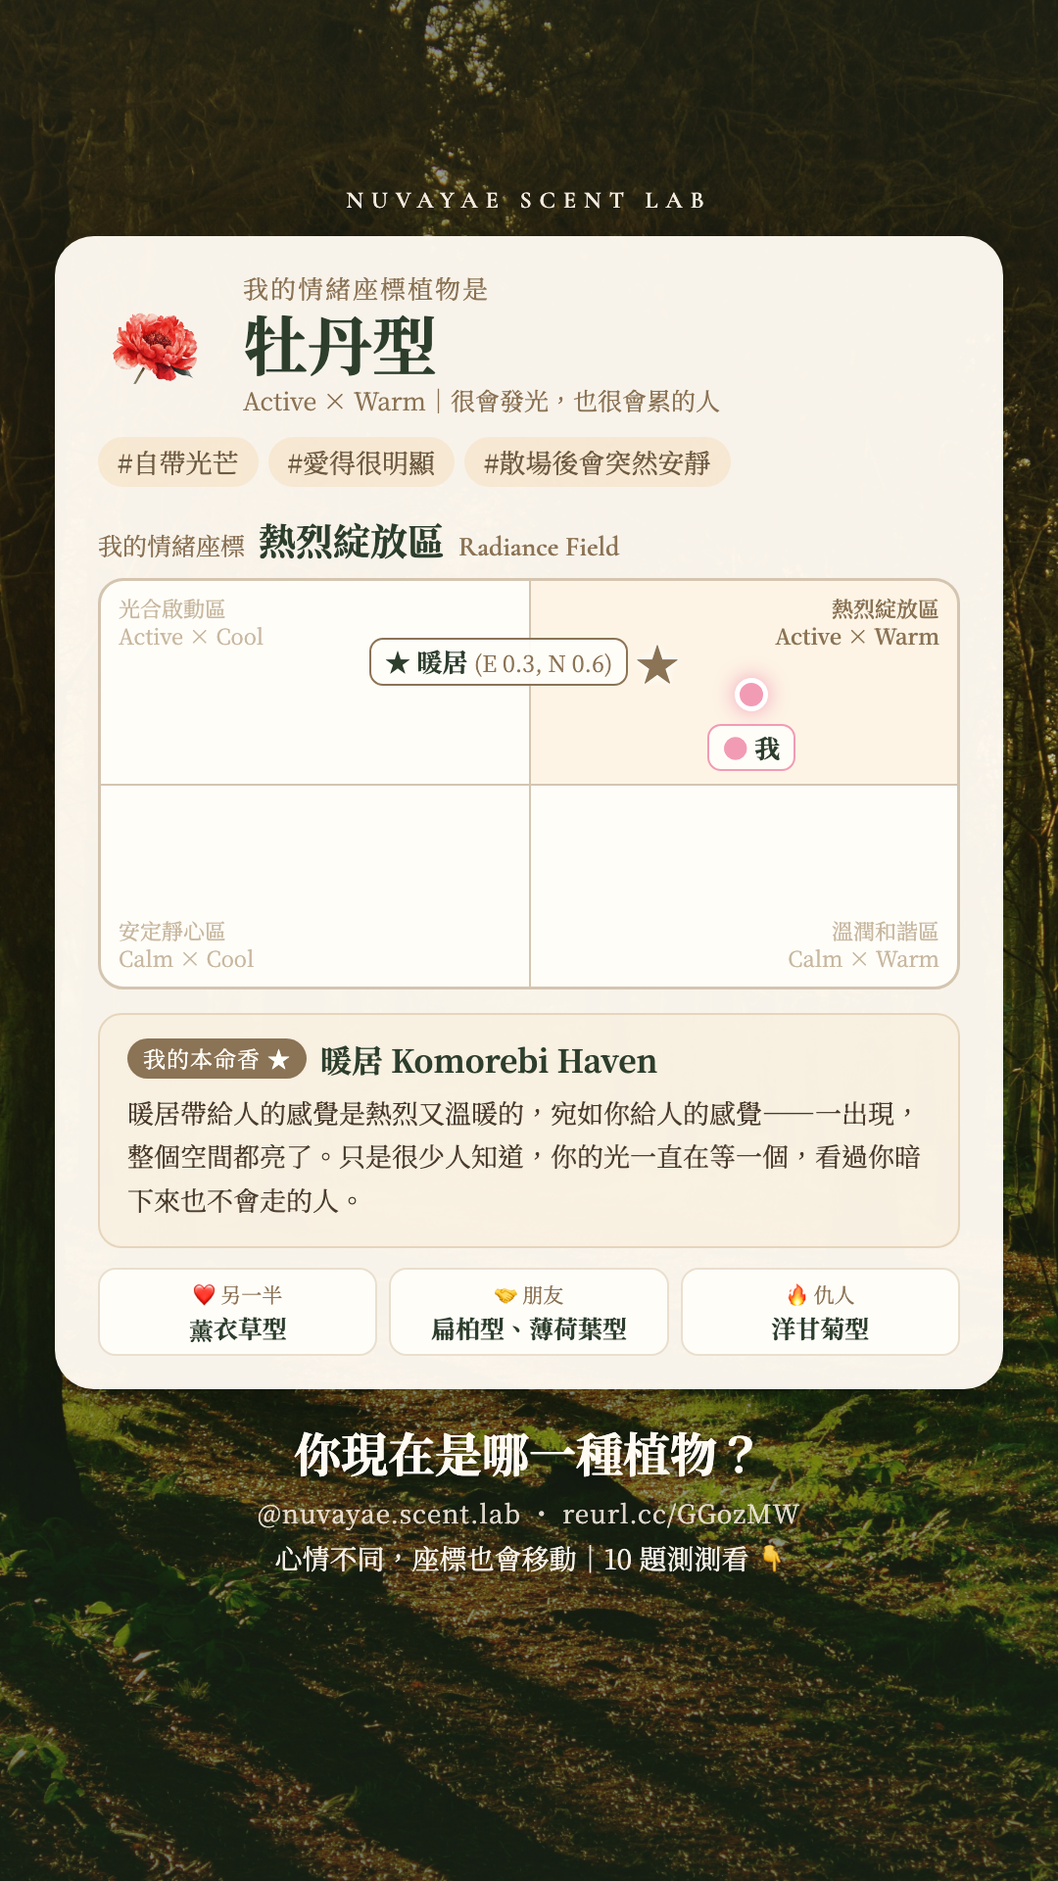
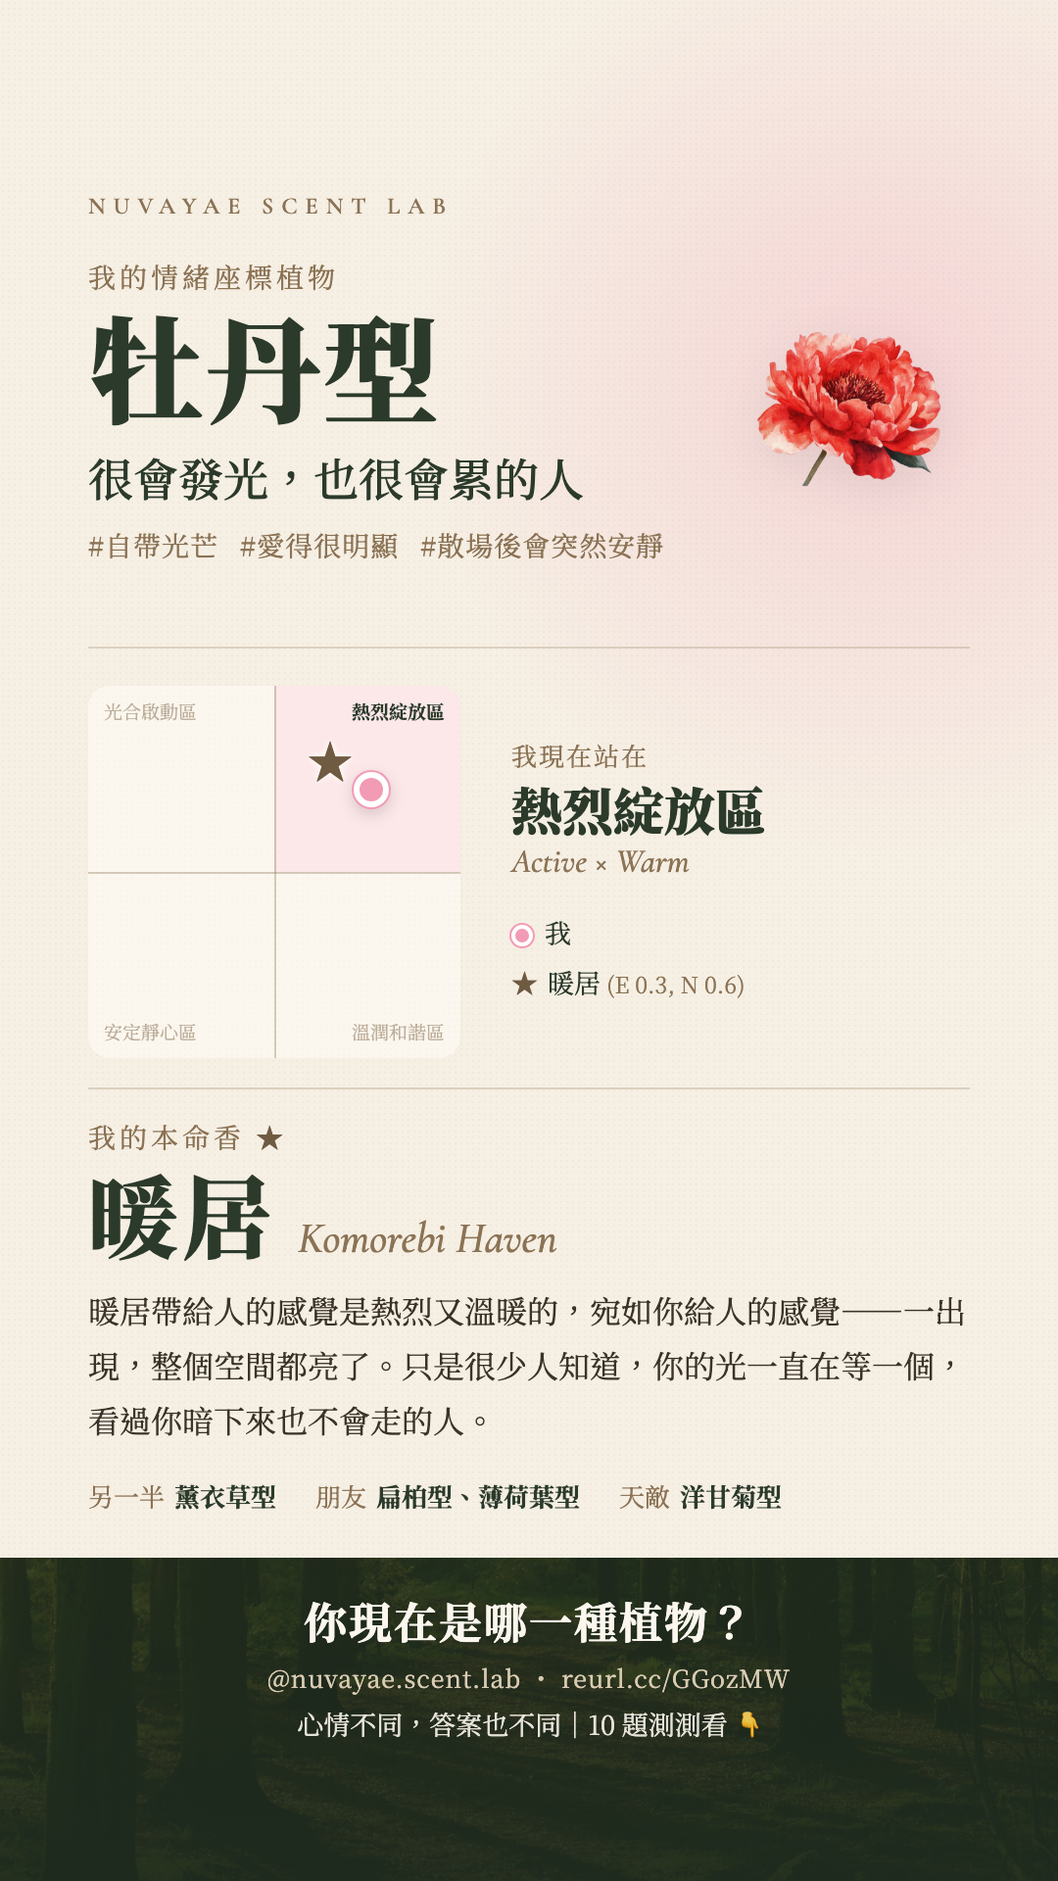
限動分享圖改為海報式排版
- 拿掉外框與卡片，用字級與留白分層：身分 → 座標 → 本命香 → 關係
- 每種植物用自己的顏色做背景暈染與象限底色
- 象限圖只放兩個點，說明移到右側圖例；底部森林帶放測驗呼籲
- 薰衣草第一個人格標籤改為「一個人也很好」，避免與副標重複
- 分享圖快取版本號更新為 v=6

diff --git a/tools/story-card.html b/tools/story-card.html
@@ -7,152 +7,155 @@
   IG 限時動態分享圖模板（1080 × 1920，9:16）
   用法：tools/story-card.html?key=lavender
   產圖：bash tools/render-story-images.sh（輸出到 share/<key>.png）
-  安全區：上方約 250px、下方約 250px 會被 IG 介面蓋住；CTA 之後留空給「連結」貼圖。
-  文案來源：js/data/plants.js（persona.traits 人格標籤、persona.line 本命香那句話）
-  主角是座標圖：我的位置（植物座標，不標數值）與本命香位置（PCA 座標，標數值）。
+
+  設計：雜誌海報式，去掉外框與卡片，用字級和留白分層。
+    1. 身分（我是誰）：植物名＋副標那句話＋人格標籤 → 讓人想分享
+    2. 座標（我在哪）：象限圖只放兩個點，說明放右側圖例 → 清楚
+    3. 本命香（為什麼是這支）：香名放大＋那句話 → 認同感、想擁有
+    4. 底部森林帶：測驗呼籲，下方留空給「連結」貼圖
+  每種植物用自己的顏色做背景暈染與象限底色，六張圖各有個性。
+  安全區：上方約 250px、下方約 250px 會被 IG 介面蓋住。
 -->
 <link rel="preconnect" href="https://fonts.googleapis.com">
 <link rel="preconnect" href="https://fonts.gstatic.com" crossorigin>
-<link href="https://fonts.googleapis.com/css2?family=Cormorant+Garamond:wght@500;600&family=Noto+Serif+TC:wght@400;600;700&display=swap" rel="stylesheet">
+<link href="https://fonts.googleapis.com/css2?family=Cormorant+Garamond:ital,wght@0,500;0,600;1,500&family=Noto+Serif+TC:wght@400;500;700;900&display=swap" rel="stylesheet">
 <style>
   * { box-sizing: border-box; margin: 0; padding: 0; }
-  html, body { width: 1080px; height: 1920px; overflow: hidden; background: #2d3e2d; }
-  body { font-family: 'Noto Serif TC', serif; color: #2d3e2d; }
+  html, body { width: 1080px; height: 1920px; overflow: hidden; }
+  body { font-family: 'Noto Serif TC', serif; color: #2b3a2b; background: #f6efe4; }
 
-  .story {
-    position: relative; width: 1080px; height: 1920px;
-    background: url('../images/forest-bg.jpg') center / cover no-repeat;
-    display: flex; flex-direction: column; align-items: center;
-    padding-top: 190px;
-  }
-  .story::before {
-    content: ''; position: absolute; inset: 0;
-    background: linear-gradient(180deg, rgba(30,42,30,0.55) 0%, rgba(30,42,30,0.25) 40%, rgba(30,42,30,0.62) 100%);
-  }
-  .story > * { position: relative; }
+  .story { position: relative; width: 1080px; height: 1920px; overflow: hidden; background: #f6efe4; }
+  /* 植物色暈染：每張圖自己的氛圍 */
+  .wash { position: absolute; width: 1100px; height: 1100px; right: -380px; top: -160px; border-radius: 50%;
+          background: radial-gradient(circle, var(--c) 0%, transparent 62%); opacity: 0.32; }
+  .grain { position: absolute; inset: 0; background: radial-gradient(rgba(139,115,85,0.05) 1px, transparent 1px); background-size: 6px 6px; }
 
-  .brand { color: #f5ebe0; letter-spacing: 8px; font-size: 24px; font-family: 'Cormorant Garamond', serif; font-weight: 600; }
+  .inner { position: absolute; left: 90px; right: 90px; top: 0; }
 
-  .card {
-    width: 968px; margin-top: 22px;
-    background: rgba(255,250,242,0.97);
-    border-radius: 40px;
-    padding: 34px 44px 34px;
-    box-shadow: 0 20px 60px rgba(0,0,0,0.25);
-  }
+  .brand { position: absolute; top: 196px; left: 90px; font-family: 'Cormorant Garamond', serif; font-weight: 600;
+           font-size: 24px; letter-spacing: 8px; color: #8b7355; }
 
-  /* 開頭 */
-  .head { display: flex; align-items: center; gap: 24px; }
-  .plant-img { width: 124px; height: 124px; object-fit: contain; flex: 0 0 auto; }
-  .kicker { font-size: 26px; color: #8b7355; letter-spacing: 2px; }
-  .plant-name { font-size: 66px; font-weight: 700; line-height: 1.15; }
-  .tagline { font-size: 25px; color: #8b7355; margin-top: 2px; }
+  /* 1. 身分 */
+  .hero { position: absolute; top: 262px; left: 90px; right: 90px; }
+  .kicker { font-size: 28px; color: #8b7355; letter-spacing: 4px; }
+  .name { font-size: 118px; font-weight: 900; line-height: 1.1; margin-top: 6px; letter-spacing: 2px; }
+  .identity { font-size: 46px; font-weight: 500; margin-top: 18px; line-height: 1.35; }
+  .tags { font-size: 28px; color: #8b7355; margin-top: 18px; letter-spacing: 1px; }
+  .tags span + span { margin-left: 22px; }
+  .plant { position: absolute; right: 70px; top: 270px; width: 270px; height: 270px; object-fit: contain;
+           filter: drop-shadow(0 12px 24px rgba(0,0,0,0.08)); }
 
-  .tags { display: flex; flex-wrap: wrap; gap: 10px; margin-top: 20px; }
-  .tag { font-size: 27px; color: #6f5a42; background: rgba(244,213,166,0.35); border-radius: 999px; padding: 6px 20px; }
+  .rule { position: absolute; left: 90px; right: 90px; height: 0; border-top: 2px solid rgba(139,115,85,0.25); }
 
-  /* 座標圖：主角 */
-  .coord-title { margin-top: 26px; display: flex; align-items: baseline; gap: 14px; }
-  .coord-title .lbl { font-size: 25px; color: #8b7355; }
-  .coord-title .zone { font-size: 38px; font-weight: 700; }
-  .coord-title .en { font-family: 'Cormorant Garamond', serif; font-weight: 600; font-size: 28px; color: #8b7355; }
+  /* 2. 座標 */
+  .coord { position: absolute; top: 700px; left: 90px; right: 90px; display: flex; gap: 52px; align-items: center; }
+  .map { position: relative; flex: 0 0 380px; height: 380px; }
+  .quad { position: absolute; width: 50%; height: 50%; padding: 14px 16px; font-size: 19px; line-height: 1.3;
+          color: rgba(139,115,85,0.55); background: rgba(255,253,248,0.55); }
+  .quad.on { background: color-mix(in srgb, var(--c) 22%, #fffdf8); color: #2b3a2b; font-weight: 700; }
+  .q-tl { left: 0; top: 0; border-top-left-radius: 22px; }
+  .q-tr { right: 0; top: 0; text-align: right; border-top-right-radius: 22px; }
+  .q-bl { left: 0; bottom: 0; display: flex; align-items: flex-end; border-bottom-left-radius: 22px; }
+  .q-br { right: 0; bottom: 0; display: flex; align-items: flex-end; justify-content: flex-end; text-align: right; border-bottom-right-radius: 22px; }
+  .ax-v { position: absolute; left: 50%; top: 0; bottom: 0; border-left: 2px solid rgba(139,115,85,0.35); }
+  .ax-h { position: absolute; top: 50%; left: 0; right: 0; border-top: 2px solid rgba(139,115,85,0.35); }
+  .pt { position: absolute; width: 36px; height: 36px; border-radius: 50%; transform: translate(-50%,-50%);
+        background: var(--c); border: 6px solid #fff; box-shadow: 0 0 0 2px var(--c), 0 6px 18px rgba(0,0,0,0.18); z-index: 2; }
+  .star { position: absolute; transform: translate(-50%,-52%); font-size: 46px; line-height: 1; color: #6f5a42;
+          text-shadow: 0 0 10px #fffdf8, 0 0 4px #fffdf8; z-index: 3; }
 
-  .map {
-    position: relative; height: 420px; margin-top: 12px;
-    border: 3px solid #d4c5b0; border-radius: 26px; background: #fffdf8; overflow: hidden;
-  }
-  .quad { position: absolute; width: 50%; height: 50%; display: flex; padding: 14px 18px; font-size: 22px; line-height: 1.3; color: #c8b8a0; }
-  .q-tr, .q-br { text-align: right; }
-  .q-tl, .q-tr { align-items: flex-start; }
-  .quad.on { background: rgba(244,213,166,0.22); color: #8b7355; font-weight: 600; }
-  .q-tl { left: 0; top: 0; }
-  .q-tr { right: 0; top: 0; justify-content: flex-end; }
-  .q-bl { left: 0; bottom: 0; align-items: flex-end; }
-  .q-br { right: 0; bottom: 0; justify-content: flex-end; align-items: flex-end; }
-  .ax-v { position: absolute; left: 50%; top: 0; bottom: 0; border-left: 2px solid #d4c5b0; }
-  .ax-h { position: absolute; top: 50%; left: 0; right: 0; border-top: 2px solid #d4c5b0; }
-  .ax-lb { position: absolute; font-family: 'Cormorant Garamond', serif; font-size: 24px; color: #8b7355; background: #fffdf8; padding: 0 8px; }
-  .ax-t { top: 6px; left: 50%; transform: translateX(-50%); }
-  .ax-b { bottom: 6px; left: 50%; transform: translateX(-50%); }
-  .ax-l { left: 6px; top: 50%; transform: translateY(-50%); }
-  .ax-r { right: 6px; top: 50%; transform: translateY(-50%); }
+  .legend { flex: 1; }
+  .legend .lbl { font-size: 26px; color: #8b7355; letter-spacing: 2px; }
+  .legend .zone { font-size: 52px; font-weight: 900; margin-top: 6px; line-height: 1.2; }
+  .legend .en { font-family: 'Cormorant Garamond', serif; font-style: italic; font-size: 34px; color: #8b7355; margin-top: 2px; }
+  .legend .keys { margin-top: 26px; font-size: 27px; line-height: 1.9; }
+  .legend .keys .dot { display: inline-block; width: 22px; height: 22px; border-radius: 50%; background: var(--c);
+                        border: 4px solid #fff; box-shadow: 0 0 0 2px var(--c); vertical-align: -3px; margin-right: 12px; }
+  .legend .keys .st { color: #6f5a42; margin-right: 10px; }
+  .legend .keys .num { font-size: 23px; color: #8b7355; margin-left: 6px; }
+  .legend .move { font-size: 23px; color: #8b7355; margin-top: 14px; }
 
-  .pt { position: absolute; width: 34px; height: 34px; border-radius: 50%; transform: translate(-50%,-50%); border: 5px solid #fff; z-index: 2; }
-  .star { position: absolute; transform: translate(-50%,-50%); font-size: 44px; line-height: 1; color: #8b7355; text-shadow: 0 0 10px #fffdf8, 0 0 4px #fffdf8; z-index: 2; }
-  .pin {
-    position: absolute; z-index: 3; white-space: nowrap;
-    font-size: 24px; line-height: 1.25; padding: 6px 14px; border-radius: 14px;
-    background: rgba(255,253,248,0.95); border: 2px solid #d4c5b0;
-  }
-  .pin b { font-size: 26px; }
-  .pin .num { font-size: 23px; color: #8b7355; font-variant-numeric: lining-nums; }
-  .pin.me { border-color: var(--c); }
-  .pin.scent { border-color: #8b7355; }
+  /* 3. 本命香 */
+  .soul { position: absolute; top: 1140px; left: 90px; right: 90px; }
+  .soul .lbl { font-size: 28px; color: #8b7355; letter-spacing: 4px; }
+  .soul .lbl b { color: #6f5a42; }
+  .soul .scent { display: flex; align-items: baseline; gap: 22px; margin-top: 8px; }
+  .soul .zh { font-size: 92px; font-weight: 900; line-height: 1.1; letter-spacing: 4px; }
+  .soul .en { font-family: 'Cormorant Garamond', serif; font-style: italic; font-size: 44px; color: #8b7355; }
+  .soul .quote { font-size: 32px; line-height: 1.75; margin-top: 18px; color: #3b3328; }
 
-  /* 本命香：精簡 */
-  .soul { margin-top: 24px; padding: 22px 28px 24px; border-radius: 24px; background: rgba(248,236,216,0.55); border: 2px solid #e6d5bb; }
-  .soul-head { display: flex; align-items: center; gap: 14px; }
-  .soul-badge { font-size: 23px; color: #fffdf8; background: #8b7355; border-radius: 999px; padding: 4px 16px; letter-spacing: 1px; }
-  .soul-name { font-size: 32px; font-weight: 700; }
-  .soul-line { font-size: 27px; line-height: 1.65; color: #4a3b2c; margin-top: 10px; }
+  .rels { position: absolute; top: 1508px; left: 90px; right: 90px; display: flex; gap: 40px; font-size: 26px; }
+  .rels span { color: #8b7355; margin-right: 10px; }
+  .rels b { font-weight: 700; }
 
-  .rels { display: flex; gap: 12px; margin-top: 20px; }
-  .rel { flex: 1; text-align: center; background: #fffdf8; border: 2px solid #eadfce; border-radius: 18px; padding: 10px 6px; }
-  .rel-role { font-size: 21px; color: #8b7355; }
-  .rel-name { font-size: 25px; font-weight: 700; margin-top: 2px; line-height: 1.35; }
-
-  .cta { margin-top: 30px; text-align: center; color: #fffaf2; }
-  .cta-q { font-size: 48px; font-weight: 700; text-shadow: 0 2px 12px rgba(0,0,0,0.35); }
-  .cta-meta { color: #f5ebe0; font-size: 26px; letter-spacing: 1px; opacity: 0.9; margin-top: 8px; }
-  .cta-sub { font-size: 28px; margin-top: 8px; opacity: 0.95; }
+  /* 4. 底部森林帶 */
+  .band { position: absolute; left: 0; right: 0; top: 1590px; bottom: 0;
+          background: linear-gradient(180deg, rgba(31,43,31,0.86), rgba(31,43,31,0.96)), url('../images/forest-bg.jpg') center 70% / cover; }
+  .cta { position: absolute; left: 0; right: 0; top: 1622px; text-align: center; color: #fbf6ee; }
+  .cta .q { font-size: 44px; font-weight: 700; letter-spacing: 2px; }
+  .cta .meta { font-size: 25px; color: #d9cbb3; margin-top: 8px; letter-spacing: 1px; }
+  .cta .hint { font-size: 27px; color: #fbf6ee; margin-top: 10px; opacity: 0.9; }
 </style>
 </head>
 <body>
-<div class="story">
+<div class="story" id="story">
+  <div class="wash"></div>
+  <div class="grain"></div>
+
   <div class="brand">NUVAYAE SCENT LAB</div>
 
-  <div class="card" id="card">
-    <div class="head">
-      <img class="plant-img" id="img" alt="">
-      <div>
-        <div class="kicker">我的情緒座標植物是</div>
-        <div class="plant-name" id="name"></div>
-        <div class="tagline" id="tagline"></div>
-      </div>
-    </div>
+  <img class="plant" id="img" alt="">
+  <div class="hero">
+    <div class="kicker">我的情緒座標植物</div>
+    <div class="name" id="name"></div>
+    <div class="identity" id="identity"></div>
     <div class="tags" id="tags"></div>
+  </div>
 
-    <div class="coord-title"><span class="lbl">我的情緒座標</span><span class="zone" id="zone"></span><span class="en" id="zoneEn"></span></div>
+  <div class="rule" style="top: 660px"></div>
+
+  <div class="coord">
     <div class="map" id="map">
-      <div class="quad q-tl" data-q="tl"><span>光合啟動區<br>Active × Cool</span></div>
-      <div class="quad q-tr" data-q="tr"><span>熱烈綻放區<br>Active × Warm</span></div>
-      <div class="quad q-bl" data-q="bl"><span>安定靜心區<br>Calm × Cool</span></div>
-      <div class="quad q-br" data-q="br"><span>溫潤和諧區<br>Calm × Warm</span></div>
+      <div class="quad q-tl" data-q="tl"><span>光合啟動區</span></div>
+      <div class="quad q-tr" data-q="tr"><span>熱烈綻放區</span></div>
+      <div class="quad q-bl" data-q="bl"><span>安定靜心區</span></div>
+      <div class="quad q-br" data-q="br"><span>溫潤和諧區</span></div>
       <div class="ax-v"></div><div class="ax-h"></div>
       <div class="pt" id="pt"></div>
       <div class="star" id="star">★</div>
-      <div class="pin me" id="pinMe"></div>
-      <div class="pin scent" id="pinScent"></div>
     </div>
-
-    <div class="soul">
-      <div class="soul-head"><span class="soul-badge">我的本命香 ★</span><span class="soul-name" id="main"></span></div>
-      <div class="soul-line" id="line"></div>
-    </div>
-
-    <div class="rels">
-      <div class="rel"><div class="rel-role">❤ 另一半</div><div class="rel-name" id="relPartner"></div></div>
-      <div class="rel"><div class="rel-role">🤝 朋友</div><div class="rel-name" id="relFriend"></div></div>
-      <div class="rel"><div class="rel-role">🔥 仇人</div><div class="rel-name" id="relEnemy"></div></div>
+    <div class="legend">
+      <div class="lbl">我現在站在</div>
+      <div class="zone" id="zone"></div>
+      <div class="en" id="axes"></div>
+      <div class="keys">
+        <div><span class="dot"></span>我</div>
+        <div><span class="st">★</span><span id="starName"></span><span class="num" id="starNum"></span></div>
+      </div>
     </div>
   </div>
 
+  <div class="rule" style="top: 1110px"></div>
+
+  <div class="soul">
+    <div class="lbl">我的本命香 <b>★</b></div>
+    <div class="scent"><span class="zh" id="scentZh"></span><span class="en" id="scentEn"></span></div>
+    <div class="quote" id="quote"></div>
+  </div>
+
+  <div class="rels">
+    <div><span>另一半</span><b id="relPartner"></b></div>
+    <div><span>朋友</span><b id="relFriend"></b></div>
+    <div><span>天敵</span><b id="relEnemy"></b></div>
+  </div>
+
+  <div class="band"></div>
   <div class="cta">
-    <div class="cta-q">你現在是哪一種植物？</div>
-    <div class="cta-meta">@nuvayae.scent.lab ・ reurl.cc/GGozMW</div>
-    <div class="cta-sub">心情不同，座標也會移動｜10 題測測看 👇</div>
+    <div class="q">你現在是哪一種植物？</div>
+    <div class="meta">@nuvayae.scent.lab ・ reurl.cc/GGozMW</div>
+    <div class="hint">心情不同，答案也不同｜10 題測測看 👇</div>
   </div>
-  <!-- CTA 下方留空給使用者放「連結」貼圖 -->
+  <!-- 1720px 以下留空給使用者放「連結」貼圖 -->
 </div>
 
 <script type="module">
@@ -163,62 +166,30 @@
   const main = products[d.scent[featured].product];
   const $ = id => document.getElementById(id);
 
+  document.getElementById('story').style.setProperty('--c', d.color);
   $('img').src = '../' + getPlantImage(key);
   $('name').textContent = d.name;
-  $('tagline').textContent = d.tagline;
-  $('tags').innerHTML = d.persona.traits.map(t => `<span class="tag">#${t}</span>`).join('');
+  const [axes, identity] = d.tagline.split('｜');
+  $('identity').textContent = identity;
+  $('tags').innerHTML = d.persona.traits.map(t => `<span>#${t}</span>`).join('');
+
   const zh = d.field.split(' ')[0];
   $('zone').textContent = zh;
-  $('zoneEn').textContent = d.field.slice(zh.length + 1);
-  $('main').textContent = main.name;
-  $('line').textContent = d.persona.line;
+  $('axes').textContent = axes.trim();
 
-  // 所在象限加底色
   const me = plantPca(d);
   const q = (me.y >= 0 ? 't' : 'b') + (me.x >= 0 ? 'r' : 'l');
   document.querySelector(`[data-q="${q}"]`).classList.add('on');
+  Object.assign($('pt').style, { left: d.coord.x + '%', top: d.coord.y + '%' });
+  const sp = pcaToPercent(main.pca);
+  Object.assign($('star').style, { left: sp.left + '%', top: sp.top + '%' });
 
-  // 兩個點
-  const mePos = { left: d.coord.x, top: d.coord.y };
-  const scPos = pcaToPercent(main.pca);
-  const pt = $('pt');
-  Object.assign(pt.style, { left: mePos.left + '%', top: mePos.top + '%', background: d.color, boxShadow: `0 0 22px ${d.color}` });
-  Object.assign($('star').style, { left: scPos.left + '%', top: scPos.top + '%' });
-
-  const pinMe = $('pinMe'), pinSc = $('pinScent');
-  pinMe.style.setProperty('--c', d.color);
-  pinMe.innerHTML = `<b><span style="color:${d.color}">●</span> 我</b>`;
-  pinSc.innerHTML = `<b>★ ${main.name.split(' ')[0]}</b> <span class="num">${formatPca(main.pca)}</span>`;
-
-  // 標籤位置：每個標籤試「上、下、右、左」，選第一個不出界、不蓋到兩個點和另一個標籤的位置
-  await document.fonts.ready;
-  const map = $('map'), W = map.clientWidth, H = map.clientHeight;
-  const pts = [mePos, scPos].map(p => ({ x: p.left / 100 * W, y: p.top / 100 * H }));
-  const hit = (a, b) => a.l < b.r && b.l < a.r && a.t < b.b && b.t < a.b;
-  const dotBox = p => ({ l: p.x - 26, r: p.x + 26, t: p.y - 26, b: p.y + 26 });
-  const placed = [];
-  const mr = map.getBoundingClientRect();
-  const quadBoxes = [...map.querySelectorAll('.quad span')].map(el => {
-    const r = el.getBoundingClientRect();
-    return { l: r.left - mr.left - 6, r: r.right - mr.left + 6, t: r.top - mr.top - 6, b: r.bottom - mr.top + 6 };
-  });
-  const place = (pin, p) => {
-    const w = pin.offsetWidth, h = pin.offsetHeight, g = 30;
-    const cands = [
-      [p.x - w / 2, p.y - h - g], [p.x - w / 2, p.y + g],
-      [p.x + g, p.y - h / 2], [p.x - w - g, p.y - h / 2]
-    ].map(([l, t]) => {
-      const L = Math.min(W - w - 8, Math.max(8, l)), T = Math.min(H - h - 8, Math.max(8, t));
-      return { l: L, t: T, r: L + w, b: T + h };
-    });
-    const ok = c => !pts.some(q => hit(c, dotBox(q))) && !placed.some(o => hit(c, o)) && !quadBoxes.some(o => hit(c, o));
-    const c = cands.find(ok) || cands[0];
-    placed.push(c);
-    pin.style.left = c.l + 'px';
-    pin.style.top = c.t + 'px';
-  };
-  place(pinSc, pts[1]);
-  place(pinMe, pts[0]);
+  const [scentZh, ...scentEn] = main.name.split(' ');
+  $('starName').textContent = scentZh;
+  $('starNum').textContent = formatPca(main.pca);
+  $('scentZh').textContent = scentZh;
+  $('scentEn').textContent = scentEn.join(' ');
+  $('quote').textContent = d.persona.line;
 
   const names = keys => keys.map(k => plantData[k].name).join('、');
   $('relPartner').textContent = names(d.relationships.partner.plants);

diff --git a/js/data/plants.js b/js/data/plants.js
@@ -76,7 +76,7 @@ export const plantData = {
         },
         persona: {
             // 分享圖「本命香」區：香氣給人的感覺＝你給人的感覺（外在印象）＋只有你知道的那一面（內在），引起共鳴
-            traits: ["把世界調成靜音", "感受力太好也是一種累", "安靜但都看在眼裡"],
+            traits: ["一個人也很好", "感受力太好也是一種累", "安靜但都看在眼裡"],
             line: "夜和帶給人的感覺是平靜透徹的，宛如你給人的感覺——安靜如水，卻讓人很舒服。只是沒有人知道，那份平靜是你一個人關上很多次門，才換來的。"
         },
         scent: {

diff --git a/js/share.js b/js/share.js
@@ -8,12 +8,12 @@ export class ShareManager {
   constructor() {
     // 預先生成的分享圖片路徑對應
     this.shareImages = {
-      lavender: 'share/lavender.png?v=5',
-      cypress: 'share/cypress.png?v=5',
-      hinoki: 'share/hinoki.png?v=5',
-      chamomile: 'share/chamomile.png?v=5',
-      mint: 'share/mint.png?v=5',
-      peony: 'share/peony.png?v=5'
+      lavender: 'share/lavender.png?v=6',
+      cypress: 'share/cypress.png?v=6',
+      hinoki: 'share/hinoki.png?v=6',
+      chamomile: 'share/chamomile.png?v=6',
+      mint: 'share/mint.png?v=6',
+      peony: 'share/peony.png?v=6'
     };
 
     // 各植物類型的分享文字模板
